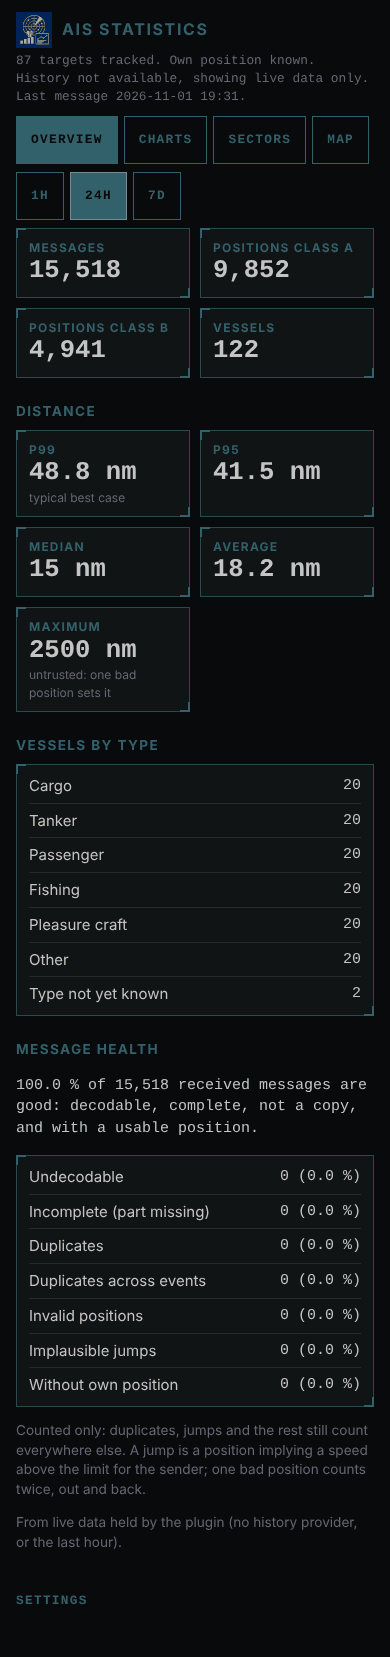
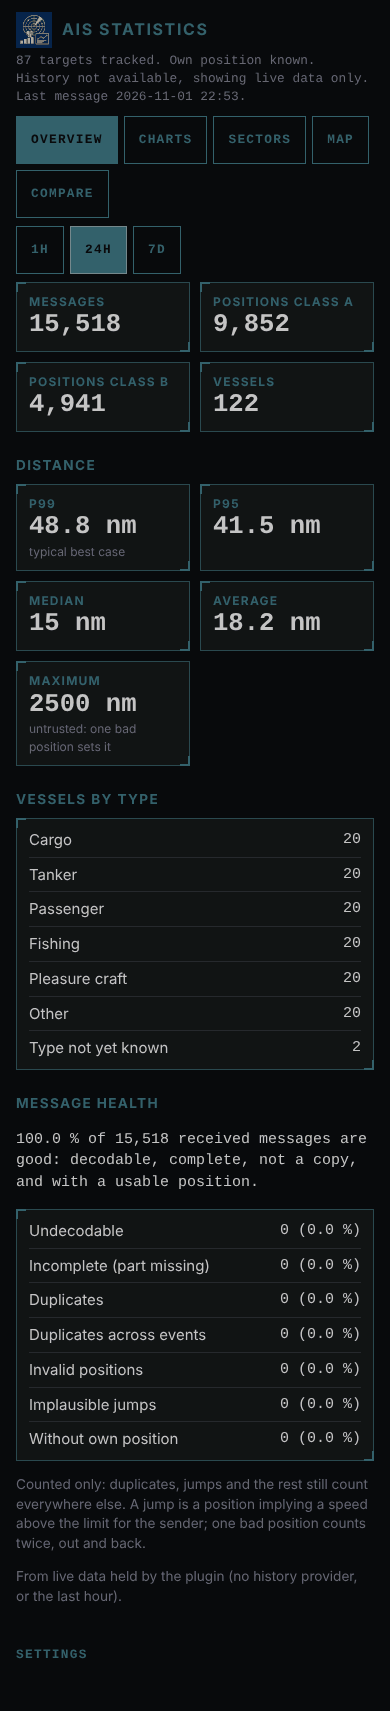
Bump version to 0.6.0; update CHANGELOG
0.6.0 ships the compare view and per-source statistics (#14),
stationary vs underway coverage (#17), propagation alerts (#13) and the
farthest-reception dot that replaces the per-sector ticks. The
screenshots are regenerated from the synthetic timeline.

This version is tagged and installed on the maintainer's own server but
not published to npm, so no GitHub release is cut for it yet.

diff --git a/CHANGELOG.md b/CHANGELOG.md
@@ -6,6 +6,8 @@ uses [Semantic Versioning](https://semver.org/).
 
 ## [Unreleased]
 
+## [0.6.0] - 2026-11-01
+
 ### Added
 
 - Compare view (#14, `#/compare`): the days before a date next to the
@@ -289,7 +291,8 @@ First release.
 - A dark tactical web app theme following day and night mode, with
   distances in the server's display units and the plugin's app icon.
 
-[Unreleased]: https://github.com/BoatHacks/signalk-ais-statistics/compare/v0.5.0...HEAD
+[Unreleased]: https://github.com/BoatHacks/signalk-ais-statistics/compare/v0.6.0...HEAD
+[0.6.0]: https://github.com/BoatHacks/signalk-ais-statistics/compare/v0.5.0...v0.6.0
 [0.5.0]: https://github.com/BoatHacks/signalk-ais-statistics/compare/v0.4.0...v0.5.0
 [0.4.0]: https://github.com/BoatHacks/signalk-ais-statistics/compare/v0.3.2...v0.4.0
 [0.3.2]: https://github.com/BoatHacks/signalk-ais-statistics/compare/v0.3.1...v0.3.2

diff --git a/CLAUDE.md b/CLAUDE.md
@@ -11,8 +11,9 @@ It publishes numeric paths under `sensors.ais.statistics.*`, reads history
 back through the SignalK History API, serves a web app, and offers the
 coverage footprint as a Freeboard-SK plotter overlay.
 
-**Current state: 0.5.0, the MVP (roadmap items 1 to 8) plus item 10,
-message health (#16), exports (#19) and range vs weather (#15).**
+**Current state: 0.6.0, the MVP (roadmap items 1 to 8) plus item 10,
+message health (#16), exports (#19), range vs weather (#15), per-source
+comparison (#14), stationary vs underway (#17) and propagation alerts (#13).**
 The remaining open point is the Freeboard-SK visual check (SPEC section 13).
 The roadmap is [docs/plans/mvp-roadmap.md](docs/plans/mvp-roadmap.md).
 

diff --git a/README.md b/README.md
@@ -3,7 +3,7 @@
 A SignalK server plugin that turns the AIS traffic your server already
 receives into reception statistics for your own AIS station.
 
-**Status: 0.5.0.** The plugin, its REST API, the web
+**Status: 0.6.0.** The plugin, its REST API, the web
 app and the plotter overlay are unit tested and run on a development
 server; the open points are in SPEC section 13.
 
